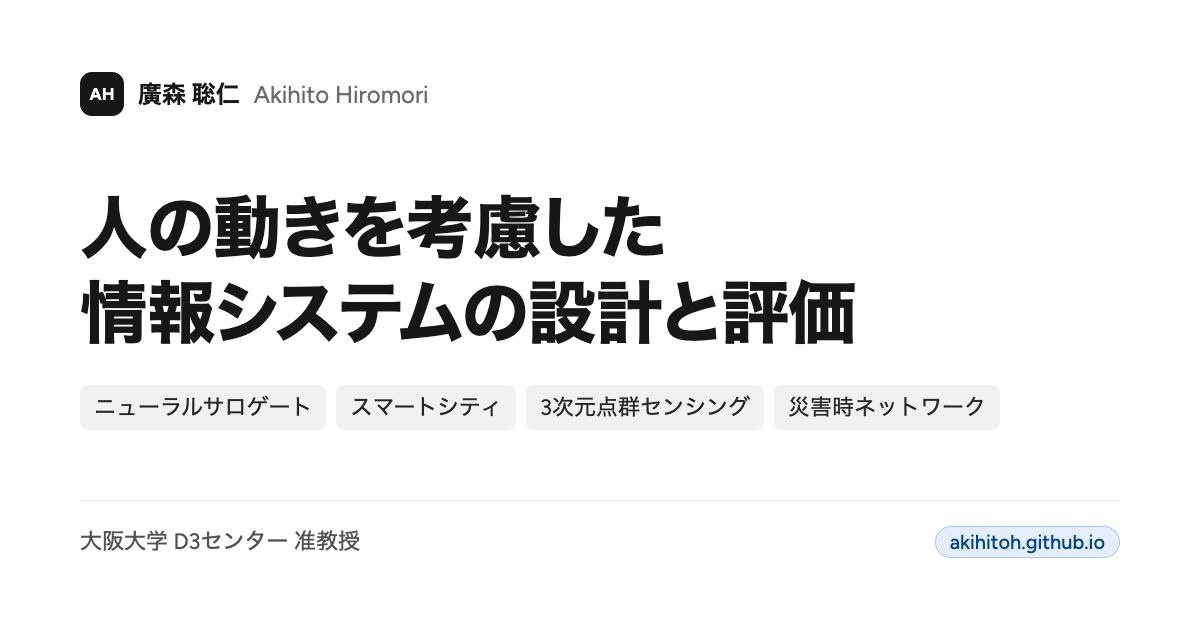
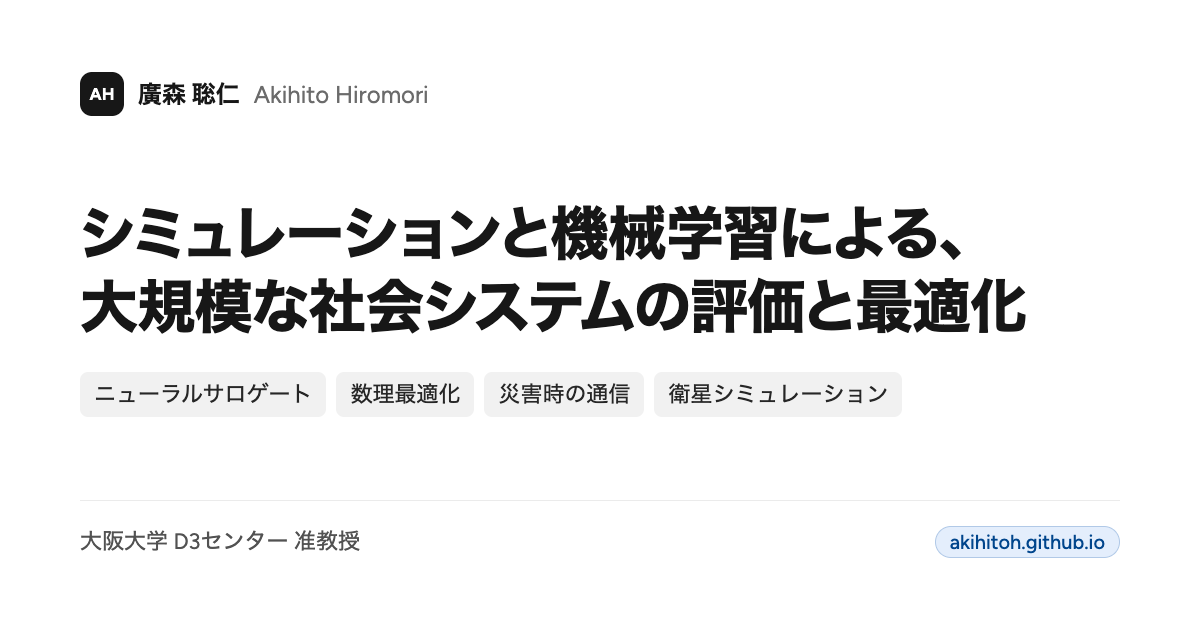
feat: rewrite home headline and lede to summarize recent research

Changed region(s): [[0.0617, 0.3016, 0.8633, 0.5429], [0.0617, 0.6032, 0.8325, 0.6635]]

diff --git a/src/components/ProfileHero.tsx b/src/components/ProfileHero.tsx
@@ -1,5 +1,6 @@
 "use client";
 // ホーム・About English 共通のヒーロー。主役は研究内容で、名前は小さなプロフィール行に置く
+import { Fragment } from "react";
 import { Avatar } from "@astryxdesign/core/Avatar";
 import { Button } from "@astryxdesign/core/Button";
 import { Card } from "@astryxdesign/core/Card";
@@ -15,9 +16,9 @@ const COPY = {
     name: "廣森 聡仁",
     nameSub: "Akihito Hiromori, Ph.D.",
     role: "大阪大学 D3センター 准教授 · 大学院情報科学研究科 情報ネットワーク学専攻 (兼)准教授",
-    headline: "人の動きを考慮した情報システムの設計と評価",
+    headline: ["シミュレーションと機械学習による、", "大規模な社会システムの評価と最適化"],
     lede:
-      "人・車両・環境の実世界センシングと、シミュレーション・最適化・機械学習を組み合わせた研究に取り組んでいます。近年はニューラルサロゲートによるシミュレーションの高速化、スマートシティにおける最適化、3次元点群センシング、災害時に強いネットワークを中心に研究しています。",
+      "人の流れや交通、無線通信、衛星コンステレーションといった大規模なシステムを、シミュレーションと機械学習で評価・最適化する研究に取り組んでいます。時間のかかるシミュレーションをニューラルサロゲートで置き換えて施策の効果を素早く見積もる手法、介護送迎や避難経路の計画を数理最適化と機械学習で解く手法、災害時にも機能する LoRa 通信や情報集約の仕組みが主なテーマです。",
     primary: { label: "研究業績を見る", href: "/works/" },
     secondary: { label: "略歴・活動", href: "/cv/" },
     facts: [
@@ -30,9 +31,9 @@ const COPY = {
     name: "Akihito Hiromori",
     nameSub: "廣森 聡仁 · Ph.D. in Engineering",
     role: "Associate Professor, D3 Center, The University of Osaka · Dept. of Information Networking, Graduate School of Information Science and Technology (concurrent)",
-    headline: "Information systems that account for human mobility",
+    headline: ["Evaluating and optimizing large-scale social systems with simulation and machine learning"],
     lede:
-      "I design and evaluate information systems by combining real-world sensing of people, vehicles and environments with simulation, optimization and machine learning. Current topics include neural surrogate models for simulation, smart-city optimization, 3D point-cloud sensing and disaster-resilient networking.",
+      "I evaluate and optimize large-scale systems such as pedestrian and traffic flows, wireless communications and satellite constellations using simulation and machine learning. Main topics include neural surrogate models that replace time-consuming simulations to rapidly estimate the impact of policies, methods combining mathematical optimization and machine learning for nursing-care transport and evacuation route planning, and LoRa communication and information-gathering systems that keep working in disasters.",
     primary: { label: "View publications", href: "/en/publications/" },
     secondary: { label: "CV", href: "#cv" },
     facts: [
@@ -69,9 +70,16 @@ export function ProfileHero({ lang }: { lang: Lang }) {
         </HStack>
 
         <VStack gap={4}>
+          <div className="hero-title">
           <Heading level={1} type="display-2" weight="bold" textWrap="pretty">
-            {c.headline}
+            {c.headline.map((line, i) => (
+              <Fragment key={line}>
+                {i > 0 && <br />}
+                {line}
+              </Fragment>
+            ))}
           </Heading>
+          </div>
           <Text as="p" type="large" weight="normal" color="secondary" display="block">
             <span className="lede" style={{ display: "block" }}>{c.lede}</span>
           </Text>

diff --git a/src/app/globals.css b/src/app/globals.css
@@ -84,6 +84,8 @@ h1, h2, h3 { word-break: auto-phrase; text-wrap: pretty; font-feature-settings: 
 @media (max-width: 860px) { .two-col { grid-template-columns: minmax(0, 1fr); } }
 
 .lede { max-width: 42em; }
+/* ホームの見出しは狭い画面で一段小さく（細切れの改行を防ぐ） */
+@media (max-width: 520px) { .hero-title h1 { font-size: 28px; line-height: 1.3; } }
 .mail-at { color: var(--color-text-secondary); padding-inline: 2px; }
 
 @media print {
